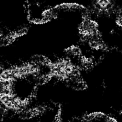
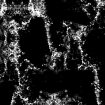
to 4090

diff --git a/utils/generate.py b/utils/generate.py
@@ -1864,3 +1864,191 @@ def old_generateTextureMap(image, blocksize, overlap, outH, outW, tolerance):	# 
 		print("{} out of {} rows complete...".format(i+1, nH+1))
 
 	return textureMap
+
+#추가####################
+# foam data 에 대한 합성
+def foam_simple(image, blocksize, overlap, outH, outW, tolerance):	# main.py에서 사용되는 메인. tolerance : 허용요차
+	# 사용: generateTextureMap(image, block_size, overlap, outH, outW, args.tolerance)
+	# ceil() : 소수점 자리의 숫자를 무조건 올리는 함수
+	nH = int(ceil((outH - blocksize)*1.0/(blocksize - overlap)))	# 최종 이미지 크기에 오버랩 부분을 제외한 실제 블록들이 몇개 들어가는가?
+	nW = int(ceil((outW - blocksize)*1.0/(blocksize - overlap)))	# 최종 이미지 크기에 오버랩 부분을 제외한 실제 블록들이 몇개 들어가는가?
+
+	textureMap = np.zeros(((blocksize + nH*(blocksize - overlap)), (blocksize + nW*(blocksize - overlap)), image.shape[2]))
+	# [(H기준 : nH(들어가는 블록개수) * (오버랩 뺀 블록실제사이즈) + 마지막에 오버랩 안되므로 블록 하나 더 사이즈) , (W기준 동일) , 색상] => 0으로 초기화
+	# Starting index and block
+	H, W = image.shape[:2]
+
+	pre_img8 = simual_RotateExImg(image, blocksize, overlap, tolerance)  # pre_img8 : [ [rotated_seta , mask] , [rotated_seta , mask] , .. ]
+	# => shape : (8, 2, h, w, 3)
+	tmp_img8 = list(zip(*pre_img8))  # [ [rotated_seta 끼리 ] , [mask 끼리] ] 로 형태 변환
+	img8 = tmp_img8[0]
+	img8_mask = tmp_img8[1]
+
+	# # 첫 블록 유의미하게 랜덤값 #################
+	# while True:
+	# 	randH = np.random.randint(H - blocksize)	# 블록사이즈 한줄 뺀 값에서 랜덤한 값
+	# 	randW = np.random.randint(W - blocksize)	# 블록사이즈 한줄 뺀 값에서 랜덤한 값
+	#
+	# 	count_black=0
+	# 	a=0
+	# 	for i in range(randH,randH + blocksize+1):
+	# 		for j in range(randW,randW + blocksize+1):
+	# 			a+=1
+	# 			if (image[i,j]==[0,0,0]).all():
+	# 				count_black += 1
+	# 	if count_black<(blocksize*blocksize*(1/2)):
+	# 		break
+	# ###########################
+
+
+	# tan 직선에 대한 mask ############
+	a, b = textureMap.shape[:2]	# a = h, b = w
+	c, d = a//2, b//2
+	tan_mask = np.zeros((a,b))
+
+	slope = 0	# 회전된 직선영역의 기울기
+	is_90 = False	# flag : 90도인가, 90도일경우에만 직선의 방정식 x= a 꼴이기 때문
+
+	if angle%90==0:
+		if angle%180==0:	# 180도 일 경우 y = y1 꼴
+			slope = 0
+		else:	# 90도 일 경우 x = x1 꼴
+			is_90 = True
+	else:	# 90, 180 도 배수 제외한 나머지 일 경우 y = ax + b
+		slope = math.tan(math.radians(angle))
+
+	flagi = 0
+	flagj = 0
+
+	tmpj = 0
+	for y in range(a):	# h
+		t = 0
+		for x in range(b):	# w
+			if is_90 == True:	# 각도 90도일 경우 특수 : x = d 꼴 / 나머지 : y = ~ 꼴
+				tan_line = d
+
+				if tan_line-30<=x and x<=tan_line+30:	# 기울어진 직선에서 얼만큼 두께를 줄 것인지
+					tan_mask[y,x] = 1
+					t+=1
+					textureMap[y,x]=(255,0,0)
+				elif tan_line-50<=x and x<=tan_line+50:
+					tan_mask[y,x] = 2
+					t+=1
+					textureMap[y,x]=(0,255,0)
+
+			else:
+				tan_line = (a-1) - (math.ceil(slope * (x - d)) + c )	# 정해진 각도를 기울기로 갖는 이미지 상 직선
+
+				if tan_line-30<=y and y<=tan_line+30:	# 기울어진 직선에서 얼만큼 두께를 줄 것인지
+					tan_mask[y,x] = 1
+					t+=1
+					textureMap[y,x]=(255,0,0)
+				elif tan_line-40<=y and y<=tan_line+40:	# 자연스러운 분포를 위해 겉에 한겹 더
+					tan_mask[y,x] = 2
+					t+=1
+					textureMap[y,x]=(0,255,0)
+	print("line generate finished")
+
+		# if t==0:	# for 문  y -> x 순으로 확인할 때 tan_line 이 짝수가 나오는 식이면 y 가 홀수일때 조건 만족하는 x를 찾을 수 없기 때문에 이전값을 저장했다가 그대로 씀
+		# 	tan_mask[y,tmpj] = 1
+		# 	textureMap[y, tmpj] = (255, 0, 0)
+
+	# plt.imshow(textureMap)  # array의 값들을 색으로 환산해 이미지의 형태로 보여줌
+	# plt.show()
+	
+	# textureMap[flagi:flagi+blocksize, flagj:flagj+blocksize, :] = startBlock  # 0으로 초기화된 맵에서 첫번째 블록에 랜덤하게 가져온 블록 대입함
+	######################
+
+	where_white = []
+	where_mid = []
+	where_black = []
+
+	for r in range(len(img8)):
+		print("블록마다 유효값 계산 중")
+		for i in range(0, H-blocksize):
+			for j in range(0,W-blocksize):
+				if (img8_mask[r][i:i + blocksize, j:j + blocksize] == 1).all():
+					count_black = 0
+					# 한 블록 당 검은 부분 얼만큼?
+					for si in range(i, i + blocksize):
+						for sj in range(j, j + blocksize):
+							if (img8[r][si, sj] == [0, 0, 0]).all():
+								count_black += 1
+					# 검은 부분의 정도에 따라 나누기
+					if count_black <= (blocksize * blocksize * (1 / 3)):
+						where_white.append([i, j, r])
+					elif count_black <= (blocksize * blocksize * (2 / 3)):
+						where_mid.append([i, j, r])
+					elif count_black >= (blocksize * blocksize * (2 / 3)):
+						where_black.append([i, j, r])
+	print("블록 유효값 계산 완료")
+
+	################################
+
+	# 이제 만들어갈 texturemap 의 첫 블록 - 랜덤하게 끼워넣음
+
+	print("rand first block")
+	randH = np.random.randint(H - blocksize)  # 블록사이즈 한줄 뺀 값에서 랜덤한 값
+	randW = np.random.randint(W - blocksize)  # 블록사이즈 한줄 뺀 값에서 랜덤한 값
+
+
+	startBlock = image[randH:randH + blocksize, randW:randW + blocksize]  # 랜덤한 위치에서 시작하는 블록 사이즈만큼 잘라서 가져옴
+	textureMap[:blocksize, :blocksize, :] = startBlock  # 0으로 초기화된 맵에서 첫번째 블록에 랜덤하게 가져온 블록 대입함
+
+	print("generate start>>")
+	# Fill the first row : 행(아래 위)
+	for i, blkIdx in enumerate(range((blocksize-overlap), textureMap.shape[1]-overlap, (blocksize-overlap))):	# enumerate() : 인덱스와 원소 차례로 반환
+		# 오버랩 부분 제외 블록 부분부터 ~ 오버랩 제외 열들까지 , 오버랩 제외한 블록사이즈만큼 옆으로 이동 (오른 -> 왼)
+
+		# Find horizontal error for this block
+		# Calculate min, find index having tolerance
+		# Choose one randomly among them
+		# blkIdx = block index to put in
+		# blkIdx = 블록에서 오버랩 되는 부분 시작점 인덱스
+		refBlock = textureMap[:blocksize, (blkIdx-blocksize+overlap):(blkIdx+overlap)]	#texturemap 의 한줄제외 모든 행에 대하여 열단위로 블록 한 칸만큼 계속 이동하면서 대입
+		patchBlock = simual_findPatchHorizontal(refBlock, img8, img8_mask, blocksize, overlap, tolerance, tan_mask, blkIdx, where_white, where_black, where_mid)	# 미리 만든 패치 찾는 함수
+		minCutPatch = getMinCutPatchHorizontal(refBlock, patchBlock, blocksize, overlap)	# 미리 만든 최소 경로 찾는 함수
+		textureMap[:blocksize, (blkIdx):(blkIdx+blocksize)] = minCutPatch	# 오버랩부분 경계선 최소경로로 자름
+	print("{} out of {} rows complete...".format(1, nH+1))
+
+
+	### Fill the first column 열 (오른 왼쪽)
+	for i, blkIdx in enumerate(range((blocksize-overlap), textureMap.shape[0]-overlap, (blocksize-overlap))):	# # enumerate() : 인덱스와 원소 차례로 반환
+		# 오버랩 부분 제외 블록 부분부터 ~ 오버랩 제외 행들까지 , 오버랩 제외한 블록사이즈만큼 옆으로 이동 (위 -> 아래)
+
+		# Find vertical error for this block
+		# Calculate min, find index having tolerance
+		# Choose one randomly among them
+		# blkIdx = block index to put in
+		# blkIdx = 블록에서 오버랩 되는 부분 시작점 인덱스
+		refBlock = textureMap[(blkIdx-blocksize+overlap):(blkIdx+overlap), :blocksize]	#texturemap 의 한줄제외 모든 열에 대하여 행단위로 블록 한 칸만큼 계속 이동하면서 대입
+		patchBlock = simual_findPatchVertical(refBlock, img8, img8_mask, blocksize, overlap, tolerance, tan_mask, blkIdx, where_white, where_black, where_mid)	# 미리 만든 패치 찾는 함수
+		minCutPatch = getMinCutPatchVertical(refBlock, patchBlock, blocksize, overlap)	# 미리 만든 최소 경로 찾는 함수
+		textureMap[(blkIdx):(blkIdx+blocksize), :blocksize] = minCutPatch	# 오버랩부분 경계선 최소경로로 자름
+
+	### Fill in the other rows and columns
+	for i in range(1, nH+1):
+		for j in range(1, nW+1):
+			# Choose the starting index for the texture placement
+			blkIndexI = i*(blocksize-overlap)
+			blkIndexJ = j*(blocksize-overlap)
+			# Find the left and top block, and the min errors independently
+			refBlockLeft = textureMap[(blkIndexI):(blkIndexI+blocksize), (blkIndexJ-blocksize+overlap):(blkIndexJ+overlap)]
+			refBlockTop  = textureMap[(blkIndexI-blocksize+overlap):(blkIndexI+overlap), (blkIndexJ):(blkIndexJ+blocksize)]
+
+			patchBlock = simual_findPatchBoth(refBlockLeft, refBlockTop, img8, img8_mask, blocksize, overlap, tolerance, tan_mask, blkIndexI, blkIndexJ, where_white, where_black, where_mid)
+			minCutPatch = getMinCutPatchBoth(refBlockLeft, refBlockTop, patchBlock, blocksize, overlap)
+
+			textureMap[(blkIndexI):(blkIndexI+blocksize), (blkIndexJ):(blkIndexJ+blocksize)] = minCutPatch
+
+			# refBlockLeft = 0.5
+			# textureMap[(blkIndexI):(blkIndexI+blocksize), (blkIndexJ-blocksize+overlap):(blkIndexJ+overlap)] = refBlockLeft
+			# textureMap[(blkIndexI-blocksize+overlap):(blkIndexI+overlap), (blkIndexJ):(blkIndexJ+blocksize)] = [0.5, 0.6, 0.7]
+			# break
+		print("{} out of {} rows complete...".format(i+1, nH+1))
+		# break
+
+	return textureMap
+#############################
+#############################
+#############################
